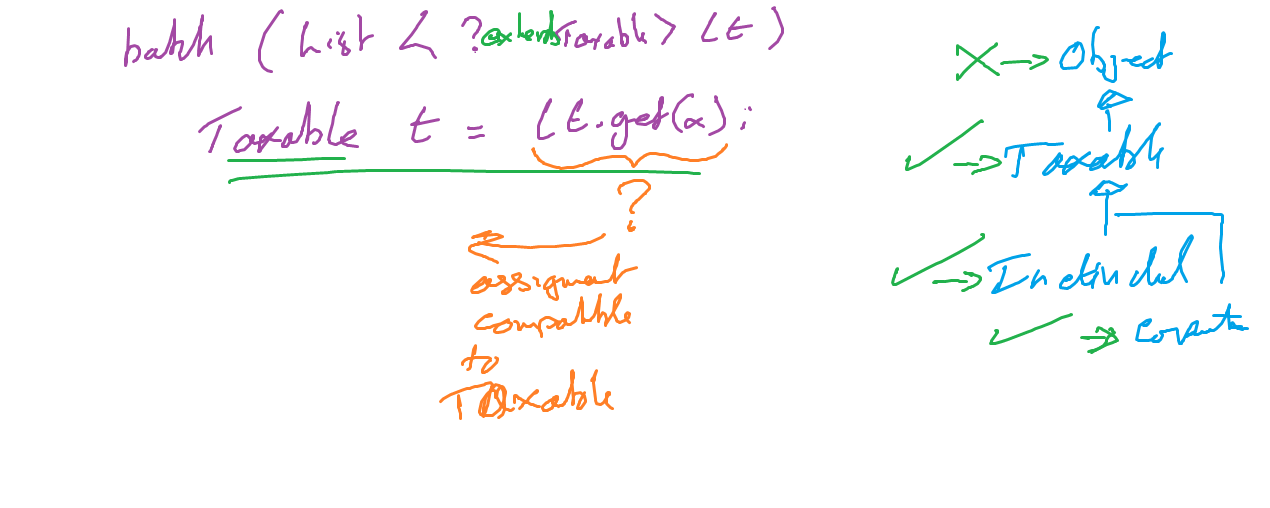
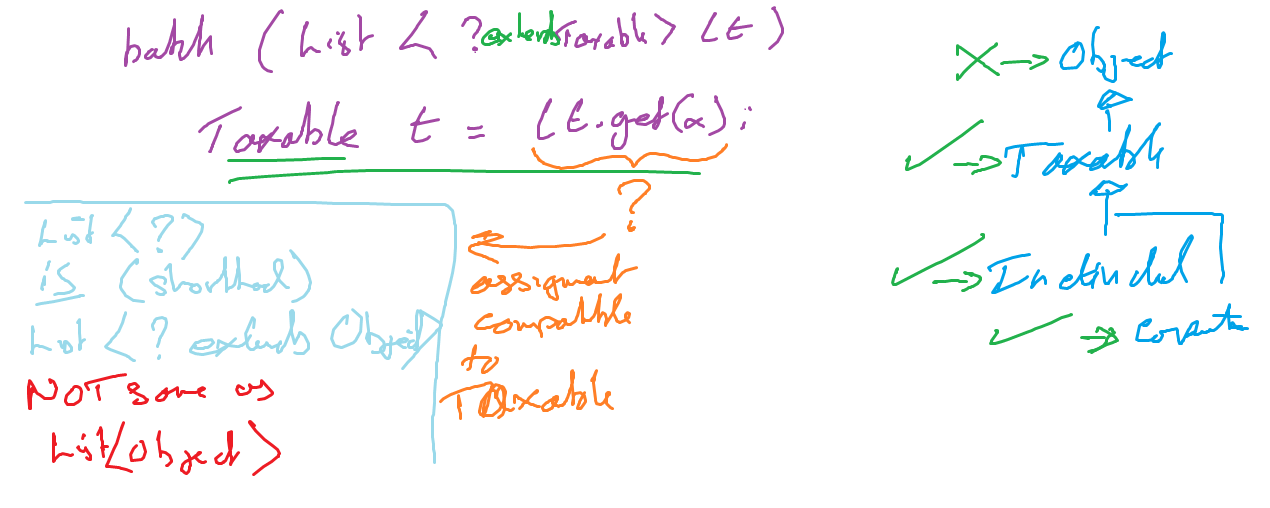
Final push

diff --git a/src/main/java/wildcard/Illustrate.java b/src/main/java/wildcard/Illustrate.java
@@ -3,6 +3,7 @@ package wildcard;
 import java.util.ArrayList;
 import java.util.Arrays;
 import java.util.List;
+import java.util.function.Function;
 
 interface Criterion<E> {
   boolean test(E e);
@@ -12,6 +13,14 @@ class LongText implements Criterion<CharSequence> {
   @Override
   public boolean test(CharSequence s) {
     return s.length() > 3;
+  }
+}
+
+class FirstThree implements Function<CharSequence, CharSequence> {
+
+  @Override
+  public CharSequence apply(CharSequence s) {
+    return s.subSequence(0, 3);
   }
 }
 
@@ -42,6 +51,15 @@ public class Illustrate {
     return out;
   }
 
+  public static <E, F> List<F> map(
+      List<E> input, Function<? super E, ? extends F> op) {
+    List<F> out = new ArrayList<>();
+    for (E s : input) {
+      out.add(op.apply(s));
+    }
+    return out;
+  }
+
   public static <E> void showAll(List<E> ls) {
     for (E s : ls) {
       System.out.println("> " + s);
@@ -61,5 +79,8 @@ public class Illustrate {
     );
     showAll(getMatchingStrings(moreNames, new LongText()));
 
+    showAll(map(names, new FirstThree()));
+    List<Object> map = map(moreNames, new FirstThree());
+    showAll(map);
    }
 }

diff --git a/src/main/java/taxation/TaxAdvisor.java b/src/main/java/taxation/TaxAdvisor.java
@@ -15,11 +15,26 @@ public class TaxAdvisor {
 //    lt.add(corp);
   }
 
+  public static void collectJoesClients(List<? super Individual> clients) {
+    Individual i1 = null;
+    PersonalFriend i2 = null;
+
+    clients.add(i1);
+    clients.add(i2);
+  }
+
   public static void main(String[] args) {
     List<Taxable> clients = null;
     batchCalculateTaxes(clients);
 
     List<Individual> joesClients = null;
     batchCalculateTaxes(joesClients);
+
+    collectJoesClients(joesClients);
+
+    collectJoesClients(clients);
+
+    List<PersonalFriend> lpf = null;
+//    collectJoesClients(lpf);
   }
 }

diff --git a/src/main/java/taxation/PersonalFriend.java b/src/main/java/taxation/PersonalFriend.java
@@ -1,0 +1,4 @@
+package taxation;
+
+public class PersonalFriend extends Individual {
+}
